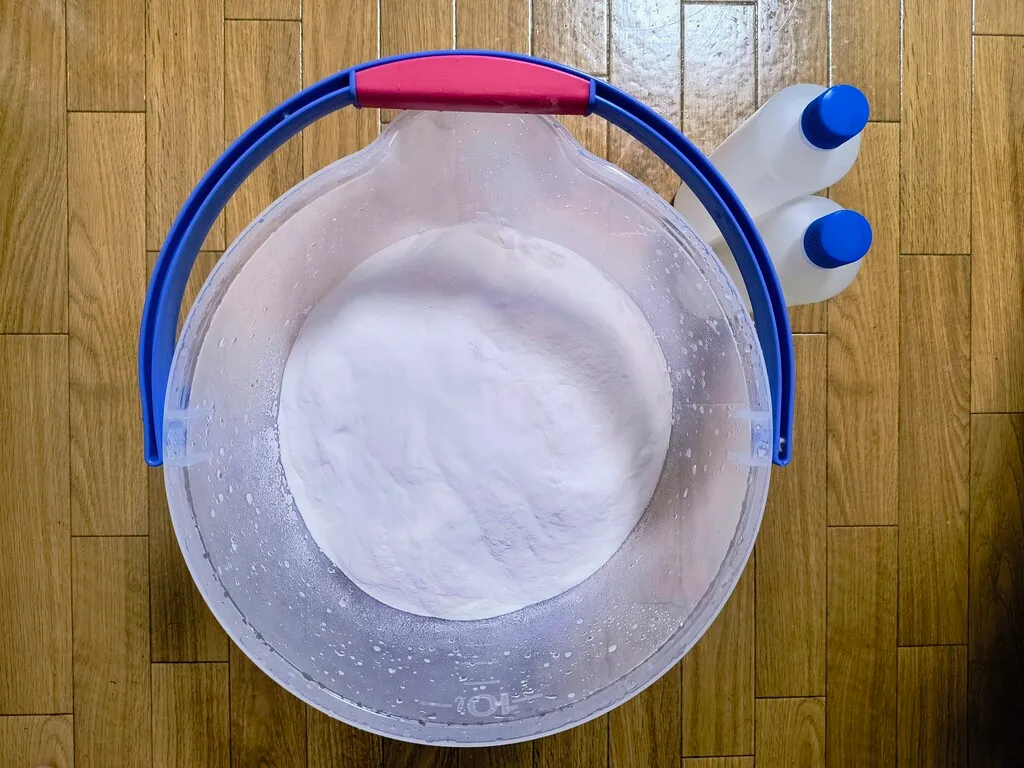
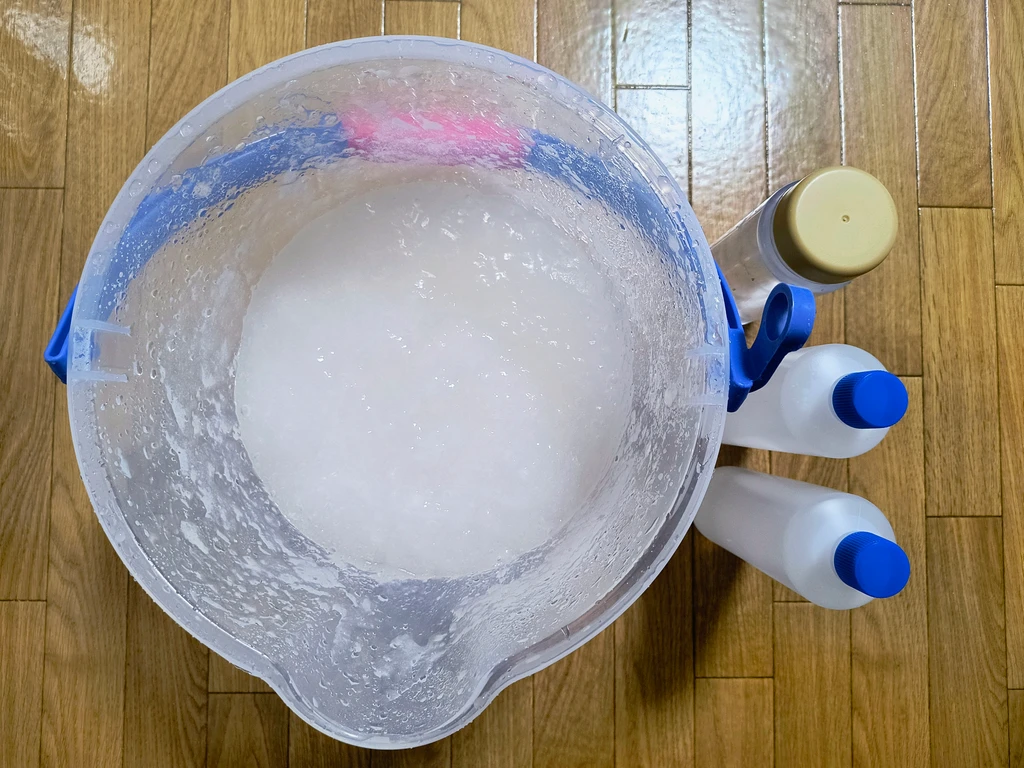
商品を更新する

diff --git a/index.html b/index.html
@@ -33,13 +33,13 @@
     </section>
     <div class="grid grid-cols-1 md:grid-cols-2 lg:grid-cols-3 gap-6 mb-16">
       <div class="bg-white rounded-2xl shadow-xl overflow-hidden hover:shadow-2xl transition-shadow duration-300 border-4 border-cyan-200">
-        <img class="sticky-slime-mix" alt="トリモチスライムの素 v0.1.0 5L" class="w-full object-contain">
+        <img class="sticky-slime-mix" alt="トリモチスライムの素 v0.2.0 6L" class="w-full object-contain">
         <div class="p-6">
-          <h3 class="text-xl font-bold text-blue-800 mb-2">トリモチスライムの素 v0.1.0 5L</h3>
-          <p class="text-gray-600 mb-4">「ネバネバ、もちもち、ふわふわ」なスライムを作るための材料</p>
+          <h3 class="text-xl font-bold text-blue-800 mb-2">トリモチスライムの素 v0.2.0 6L</h3>
+          <p class="text-gray-600 mb-4">トリモチのような粘着力を持つスライムを作るための材料です。本商品とは別にPVA洗濯のりを1Lご用意ください。</p>
           <div class="flex justify-between items-center">
-            <span class="text-2xl font-bold text-cyan-600">¥950</span>
-            <a href="https://buy.stripe.com/3cIeVc45Q4LK5H34C77IY02" target="_blank" class="bg-cyan-600 hover:bg-cyan-700 text-white px-6 py-2 rounded-full font-semibold transition">注文する</a>
+            <span class="text-2xl font-bold text-cyan-600">¥1,000</span>
+            <a href="https://buy.stripe.com/aFadR88m6cecd9v7Oj7IY04" target="_blank" class="bg-cyan-600 hover:bg-cyan-700 text-white px-6 py-2 rounded-full font-semibold transition">注文する</a>
           </div>
         </div>
       </div>
@@ -51,11 +51,11 @@
           </div>
         </div>
         <div class="p-6">
-          <h3 class="text-xl font-bold text-blue-800 mb-2">トリモチスライムの素 v0.1.0 10L</h3>
-          <p class="text-gray-600 mb-4">「ネバネバ、もちもち、ふわふわ」なスライムを作るための材料</p>
+          <h3 class="text-xl font-bold text-blue-800 mb-2">トリモチスライムの素 v0.2.0 12L</h3>
+          <p class="text-gray-600 mb-4">トリモチのような粘着力を持つスライムを作るための材料です。本商品とは別にPVA洗濯のりを2Lご用意ください。</p>
           <div class="flex justify-between items-center">
-            <span class="text-2xl font-bold text-cyan-600">¥1,900</span>
-            <a href="https://buy.stripe.com/5kQ00i9qa7XWedzgkP7IY03" target="_blank" class="bg-cyan-600 hover:bg-cyan-700 text-white px-6 py-2 rounded-full font-semibold transition">注文する</a>
+            <span class="text-2xl font-bold text-cyan-600">¥2,000</span>
+            <a href="https://buy.stripe.com/cNi6oG1XIba8fhD8Sn7IY05" target="_blank" class="bg-cyan-600 hover:bg-cyan-700 text-white px-6 py-2 rounded-full font-semibold transition">注文する</a>
           </div>
         </div>
       </div>
@@ -75,60 +75,57 @@
       <div class="max-w-4xl mx-auto space-y-8">
         <div class="bg-white rounded-2xl shadow-xl overflow-hidden border-4 border-cyan-200">
           <div class="bg-cyan-600 text-white px-6 py-4">
-            <h3 class="text-2xl font-bold">1. 材料を用意し、容器にお湯を注ぐ</h3>
+            <h3 class="text-2xl font-bold">1. 材料を用意する</h3>
           </div>
           <div class="p-6 flex flex-col md:flex-row md:gap-6">
             <div class="md:w-1/2 mb-4 md:mb-0">
-              <img alt="お湯を加えた後の様子" class="w-full rounded-lg object-contain h-64" id="how-to-make-sticky-slime-1">
+              <img alt="" class="w-full rounded-lg object-contain h-64" id="how-to-make-sticky-slime-1">
             </div>
             <div class="md:w-1/2 flex flex-col justify-center">
-              <p class="text-gray-700">トリモチスライムの素1袋、PVA洗濯のり約1L、スライムを入れる容器を用意します。別添のホウ砂とクエン酸は不要です。</p>
-              <p class="text-gray-700">シャワーのお湯を約4L加えます。スライムの粘り気を高めたい場合は水の量を減らしてください。</p>
+              <p class="text-gray-700">トリモチスライムの素1袋、別添のホウ砂1袋、PVA洗濯のり1L、スライムを入れる容器を用意します。</p>
+              <p class="text-gray-700">ボトルに500mL程度のぬるま湯と半量のホウ砂を加えてかき混ぜ、ホウ砂水溶液を作ります。</p>
+              <p class="text-gray-700">バケツにぬるま湯を4〜5L注ぎます。</p>
             </div>
           </div>
         </div>
         <div class="bg-white rounded-2xl shadow-xl overflow-hidden border-4 border-cyan-200">
           <div class="bg-cyan-600 text-white px-6 py-4">
-            <h3 class="text-2xl font-bold">2. トリモチスライムの素を加える</h3>
+            <h3 class="text-2xl font-bold">2. トリモチスライムの素を少しずつ加えてかき混ぜる</h3>
           </div>
           <div class="p-6 flex flex-col md:flex-row md:gap-6">
             <div class="md:w-1/2 mb-4 md:mb-0">
-              <img alt="トリモチスライムの素を加えた後の様子" class="w-full rounded-lg object-contain h-64" id="how-to-make-sticky-slime-2">
+              <img alt="" class="w-full rounded-lg object-contain h-64" id="how-to-make-sticky-slime-2">
             </div>
             <div class="md:w-1/2 flex flex-col justify-center">
-              <p class="text-gray-700">トリモチスライムの素を全て加えます。</p>
+              <p class="text-gray-700">粉末を一度に入れるとダマができやすいため、バケツの水をかき混ぜながらトリモチスライムの素を少しずつ加えます。</p>
+              <p class="text-gray-700">小さなダマができることがありますが、液体の粘度が増すにつれてダマが減っていきますので問題ありません。</p>
             </div>
           </div>
         </div>
         <div class="bg-white rounded-2xl shadow-xl overflow-hidden border-4 border-cyan-200">
           <div class="bg-cyan-600 text-white px-6 py-4">
-            <h3 class="text-2xl font-bold">3. かき混ぜる</h3>
+            <h3 class="text-2xl font-bold">3. PVA洗濯のりを加えてかき混ぜる</h3>
           </div>
           <div class="p-6 flex flex-col md:flex-row md:gap-6">
             <div class="md:w-1/2 mb-4 md:mb-0">
-              <img alt="かき混ぜた後の様子" class="w-full rounded-lg object-contain h-64" id="how-to-make-sticky-slime-3">
+              <img alt="" class="w-full rounded-lg object-contain h-64" id="how-to-make-sticky-slime-3">
             </div>
             <div class="md:w-1/2 flex flex-col justify-center">
-              <p class="text-gray-700">粉末がお湯に沈み込むようにかき混ぜます。</p>
-              <p class="text-gray-700">ダマができますが、最終的には消えますので問題ありません。</p>
-              <p class="text-gray-700">粘り気が出てくるまでかき混ぜてください。</p>
-
+              <p class="text-gray-700">バケツにPVA洗濯のりを1L加えてかき混ぜます。</p>
             </div>
           </div>
         </div>
         <div class="bg-white rounded-2xl shadow-xl overflow-hidden border-4 border-cyan-200">
           <div class="bg-cyan-600 text-white px-6 py-4">
-            <h3 class="text-2xl font-bold">4. PVA洗濯のりを加えてかき混ぜる</h3>
+            <h3 class="text-2xl font-bold">4. ホウ砂水溶液を少しずつ加えてかき混ぜ、固さを調整する</h3>
           </div>
           <div class="p-6 flex flex-col md:flex-row md:gap-6">
             <div class="md:w-1/2 mb-4 md:mb-0">
-              <img alt="PVA洗濯のりを加えた後の様子" class="w-full rounded-lg object-contain h-64" id="how-to-make-sticky-slime-4">
+              <img alt="" class="w-full rounded-lg object-contain h-64" id="how-to-make-sticky-slime-4">
             </div>
             <div class="md:w-1/2 flex flex-col justify-center">
-              <p class="text-gray-700">PVA洗濯のりを全て加え、かき混ぜます。</p>
-              <p class="text-gray-700">スライムが重たくなってきたら、スライムを底からすくい上げるようにしてかき混ぜてください。</p>
-              <p class="text-gray-700">ダマが残っている場合は、シャワーのお湯を少し加えてさらにかき混ぜます。</p>
-              <p class="text-gray-700">トリモチスライムの完成です！</p>
+              <p class="text-gray-700">水をかき混ぜながらホウ砂水溶液を少しずつ加えます。液体が徐々にスライム状になってきますので、適度な固さになるまでホウ砂水溶液を加えて調整してください。</p>
+              <p class="text-gray-700">ダマが残っている場合は、ぬるま湯をを少量加えてかき混ぜると効果的です。</p>
             </div>
           </div>
         </div>
@@ -141,17 +138,16 @@
           <div class="space-y-6 text-gray-700">
             <div>
               <h3 class="text-xl font-bold text-cyan-700 mb-3">皮膚についた場合</h3>
-              <p class="leading-relaxed">シャワーのお湯で洗い流してください。身体をスポンジでこすると効果的です。</p>
+              <p class="leading-relaxed">シャワーのお湯を掛けながら付着した箇所をスポンジでこすると素早く落とせます。</p>
             </div>
             <div>
               <h3 class="text-xl font-bold text-cyan-700 mb-3">床や家具についた場合</h3>
-              <p class="leading-relaxed">ぬるま湯で湿らせた布で拭き取ってください。クエン酸を適量加えてこすると落としやすくなります。</p>
+              <p class="leading-relaxed">お酢を溶かしたぬるま湯を布に染み込ませ、丁寧に拭き取ってください。</p>
             </div>
             <div>
               <h3 class="text-xl font-bold text-cyan-700 mb-3">廃棄する場合</h3>
-              <p class="leading-relaxed">スライムを容器に移し、クエン酸を加えてシャワーのお湯をかけながらかき混ぜます。</p>
-              <p class="leading-relaxed">スライムが緩くなってきたら排水口に少しずつ流してください。</p>
-              <p class="leading-relaxed">クエン酸とお湯を加えてかき混ぜてもスライムが緩くならない場合は、生ごみ（可燃ごみ）として廃棄してください。</p>
+              <p class="leading-relaxed">バスタブの栓を閉めてからスライムをバスタブに移し、大量のぬるま湯と適量のお酢を加えてスライムをかき混ぜることで、液体状になり、そのまま排水できます。</p>
+              <p class="leading-relaxed">しばらくかき混ぜてもスライムが緩くならない場合は、生ごみ（可燃ごみ）として廃棄してください。</p>
             </div>
           </div>
         </div>
@@ -166,15 +162,15 @@
           </div>
           <div class="p-6">
             <p class="text-gray-700 leading-relaxed">水の量が多すぎる可能性があります。少量の水から試し、少しずつ水の量を増やしながら様子を見てください。水を加えすぎた場合は別添のホウ砂を使って水溶液を作り、少しずつ加えて固さを調整してください。</p>
-            <p class="text-gray-700 leading-relaxed">また、お湯の温度が高すぎるとホウ砂による架橋が不安定になり、スライムが緩くなります。</p>
+            <p class="text-gray-700 leading-relaxed">また、水の温度が高すぎるとホウ砂による架橋が不安定になり、スライムが緩くなります。</p>
           </div>
         </div>
         <div class="bg-white rounded-2xl shadow-xl overflow-hidden border-4 border-cyan-200">
           <div class="bg-cyan-600 text-white px-6 py-4">
-            <h3 class="text-xl font-bold">Q2. スライムはどのくらい保存できる？</h3>
+            <h3 class="text-xl font-bold">Q2. スライムはどのくらい保管できる？</h3>
           </div>
           <div class="p-6">
-            <p class="text-gray-700 leading-relaxed">密閉容器に入れて保管した場合、作ってから1日を目安に廃棄することをおすすめします。保存料を使用していないため、長期保存には適していません。</p>
+            <p class="text-gray-700 leading-relaxed">密閉容器に入れて保管した場合、最大2週間保管できます。</p>
           </div>
         </div>
         <div class="bg-white rounded-2xl shadow-xl overflow-hidden border-4 border-cyan-200">
@@ -182,7 +178,7 @@
             <h3 class="text-xl font-bold">Q3. スライムが固すぎる</h3>
           </div>
           <div class="p-6">
-            <p class="text-gray-700 leading-relaxed">ホウ砂の量が多すぎる可能性があります。少量のお湯やPVA洗濯のりを加えてよくかき混ぜてください。徐々に柔らかくなります。それでもスライムが固すぎる場合は、別添のクエン酸を使って水溶液を作り、少しずつ加えてください。</p>
+            <p class="text-gray-700 leading-relaxed">ホウ砂の量が多すぎる可能性があります。少量のお湯やPVA洗濯のりを加えてよくかき混ぜてください。徐々に柔らかくなります。それでもスライムが固すぎる場合は、少量のお酢を溶かした水溶液を作り、少しずつ加えてください。</p>
           </div>
         </div>
         <div class="bg-white rounded-2xl shadow-xl overflow-hidden border-4 border-cyan-200">
@@ -190,7 +186,7 @@
             <h3 class="text-xl font-bold">Q4. ダマが残ってしまう</h3>
           </div>
           <div class="p-6">
-            <p class="text-gray-700 leading-relaxed">シャワーのお湯を少量加えて、さらによくかき混ぜてください。時間をかけて混ぜることで、ダマは徐々に溶けていきます。</p>
+            <p class="text-gray-700 leading-relaxed">ぬるま湯を少量加えてかき混ぜてください。時間をかけて混ぜることで、ダマは徐々に溶けていきます。</p>
           </div>
         </div>
         <div class="bg-white rounded-2xl shadow-xl overflow-hidden border-4 border-cyan-200">
